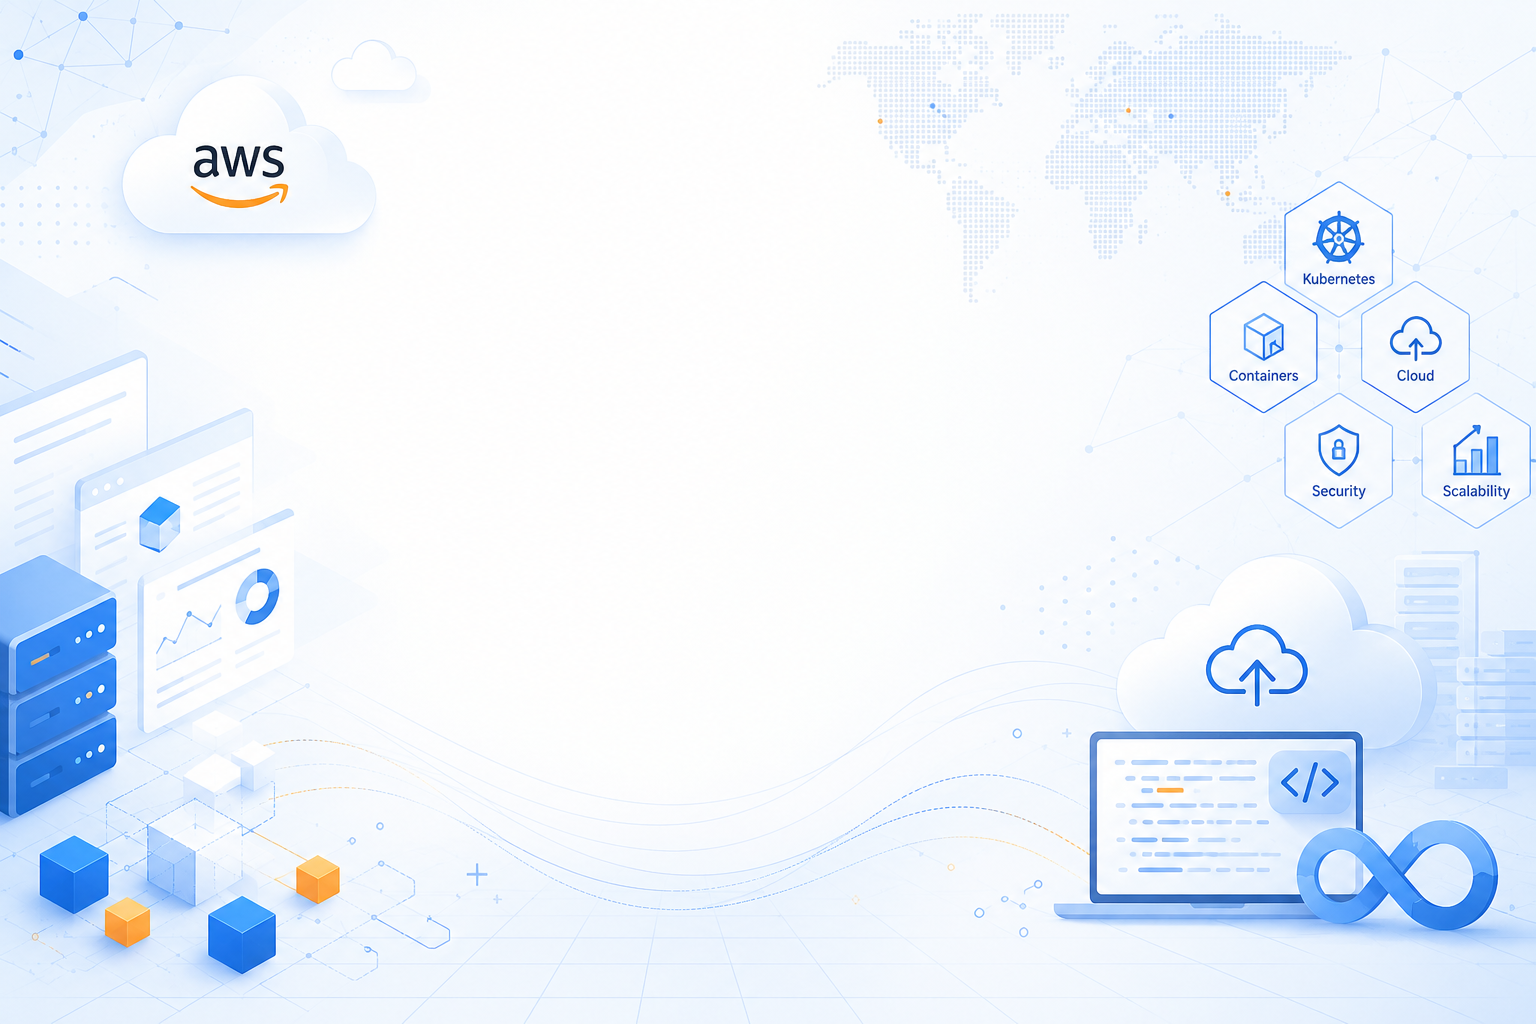
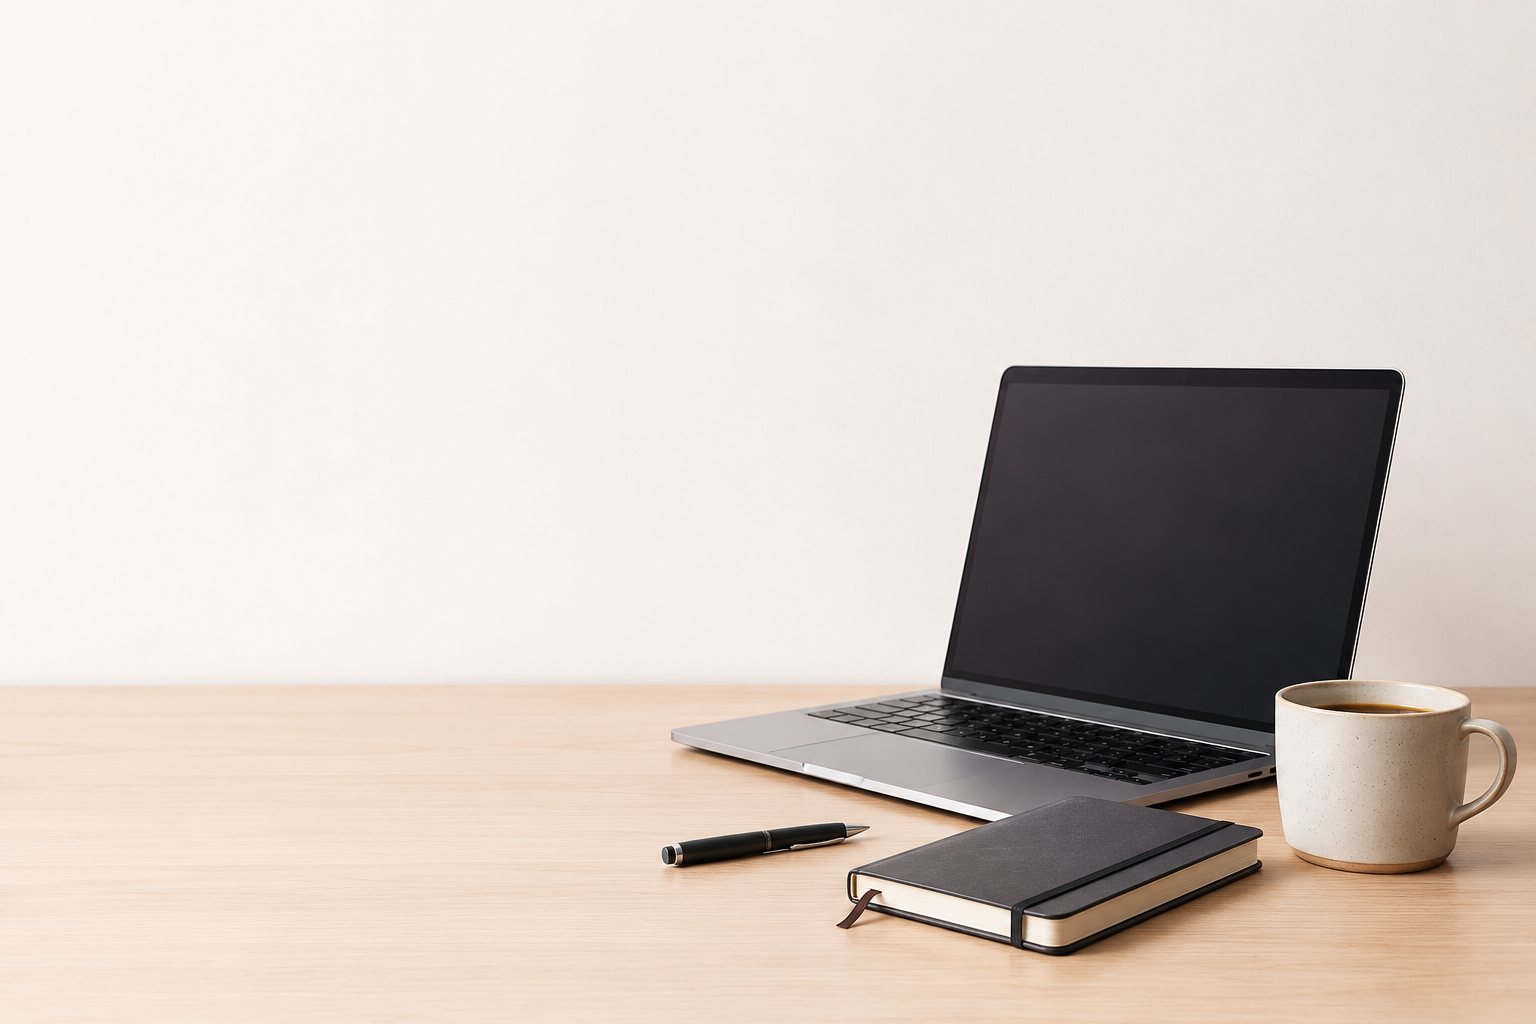
update backg

diff --git a/assets/css/style.css b/assets/css/style.css
@@ -320,7 +320,7 @@ h3 {
 /* Original */
 
 #intro.section {
-  background: url(../../assets/img/backg3.png) no-repeat top center/cover;
+  background: url(../../assets/img/image.png) no-repeat top center/cover;
   position: relative;
 }
 
